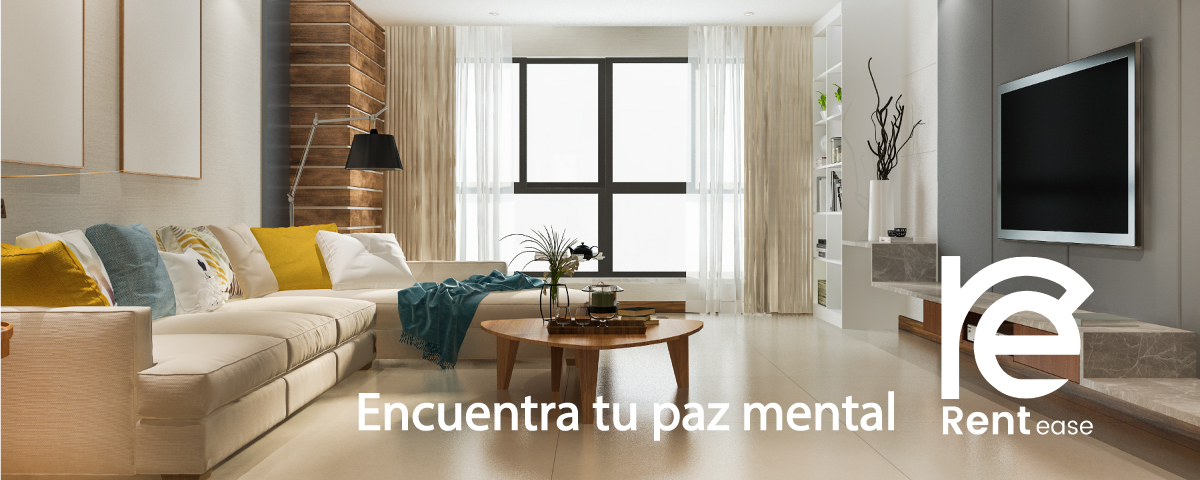
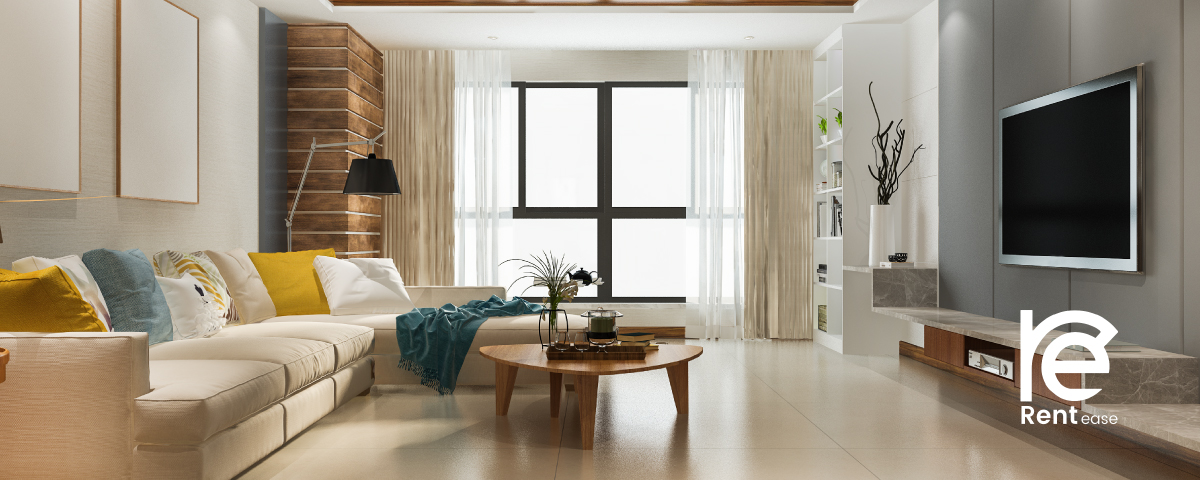
Actualizacion del Home

diff --git a/src/Home/home.html b/src/Home/home.html
@@ -1,93 +1,133 @@
 <!DOCTYPE html>
 <html lang="en">
+
 <head>
-    <meta charset="UTF-8">
-    <link rel="icon" href="/logoweb.png" />
+  <meta charset="UTF-8">
+  <link rel="icon" href="/logoweb.png" />
   <link rel="stylesheet" href="/src/Home/home.css">
   <link href="https://cdnjs.cloudflare.com/ajax/libs/font-awesome/6.0.0/css/all.min.css" rel="stylesheet">
 
 
-    <meta name="viewport" content="width=device-width, initial-scale=1.0">
-    <title>RentEase</title>
+  <meta name="viewport" content="width=device-width, initial-scale=1.0">
+  <title>RentEase</title>
 </head>
 <header>
-    <div class="container">
-      <div class="menu">
-        <div class="logo">
-            <a href="/src/Home/home.html">
-                <img src="/h2.png" alt="logo" height="60px" width="60px">
-            </a>
-        </div>
-        <ul class="nav">
-          <li><a href="../Flat/Flat.html">Nuevo</a></li>
-          <li><a href="../Flat/allFlats.html">Departamentos</a></li>
-          <li><a href="../Register/register.html">Registro</a></li>
-        </ul>
-        <div class="usersesion">
-          <img src="/activeUser.png" alt="logout" height="40px" width="40px">
-          <a href="../ProfileUpdate/profileupdate.html" id="nameUser">
-            <p id="uSesion">Alvaro</p>
-          </a>
-        </div>
-        <div class="logout">
-          <a href="../Login/login.html">
-            <img src="/h1.svg" alt="logout" height="30px" width="30px">
-          </a>
-        </div>
+  <div class="container">
+    <div class="menu">
+      <div class="logo">
+        <a href="/src/Home/home.html">
+          <img src="/h2.png" alt="logo" height="60px" width="60px">
+        </a>
+      </div>
+      <ul class="nav">
+        <li><a href="../Flat/Flat.html">Nuevo</a></li>
+        <li><a href="../Flat/allFlats.html">Departamentos</a></li>
+        <li><a href="../Register/register.html">Registro</a></li>
+      </ul>
+      <div class="usersesion">
+        <img src="/activeUser.png" alt="logout" height="40px" width="40px">
+        <a href="../ProfileUpdate/profileupdate.html" id="nameUser">
+          <p id="uSesion">Alvaro</p>
+        </a>
+      </div>
+      <div class="logout">
+        <a href="../Login/login.html">
+          <img src="/h1.svg" alt="logout" height="30px" width="30px">
+        </a>
       </div>
     </div>
-  </header>
-  <script src="./home.js" type="module"></script>
-<body>
-  <div class="carousel">
-    <button id="prevBtn">⬅</button>
-    <div id="carouselContent"></div>
-    <button id="nextBtn">➡</button>
   </div>
+</header>
+<script src="./home.js" type="module"></script>
+
+<body>
+
+
+  <section class="banner">
+    <div class="banner-img">
+      <img src="/banner-01.jpg" alt="Rent Ease">
+    </div>
+  </section>
+
+  <section class="company-description">
+    <h2>RentEase</h2>
+    <p>En RentEase, hacemos que la renta de departamentos sea fácil, rápida y segura.
+      Conectamos propietarios con inquilinos de manera eficiente, asegurando que encuentres
+      tu espacio ideal sin complicaciones.</p>
+  </section>
+
+  <section class="indicators">
+    <div class="indicator">
+      <h3 class="counter" data-target="500">0</h3>
+      <p>Departamentos Disponibles</p>
+    </div>
+    <div class="indicator">
+      <h3 class="counter" data-target="1200">0</h3>
+      <p>Clientes Satisfechos</p>
+    </div>
+    <div class="indicator">
+      <h3 class="counter" data-target="95">0</h3>
+      <p>Tasa de Satisfacción</p>
+    </div>
+  </section>
+
+  <section class="departments">
+    <h2>Nuestros Departamentos</h2>
+    <div class="carousel">
+      <button id="prevBtn">⬅</button>
+      <div id="carouselContent"></div>
+      <button id="nextBtn">➡</button>
+    </div>
+  </section>
+
   <div class="video">
-    <h3>Te ayudamos a encontrar el hogar de tus sueños</h3>
+    <h2>Te ayudamos a encontrar el hogar de tus sueños</h2>
     <p class="video-description">
-        Descubre oportunidades únicas con nuestro equipo. Mira cómo podemos acompañarte en cada paso para encontrar tu hogar ideal.
+      Descubre oportunidades únicas con nuestro equipo. Mira cómo podemos acompañarte en cada paso para encontrar tu
+      hogar ideal.
     </p>
-    <iframe width="600px" height="415px" src="https://www.youtube.com/embed/VhcbOY4V2no?si=zjt3xkzLo39LPpZM" title="YouTube video player" frameborder="0" allow="accelerometer; autoplay; clipboard-write; encrypted-media; gyroscope; picture-in-picture; web-share" referrerpolicy="strict-origin-when-cross-origin" allowfullscreen></iframe>
+    <iframe width="600px" height="415px" src="https://www.youtube.com/embed/VhcbOY4V2no?si=zjt3xkzLo39LPpZM"
+      title="YouTube video player" frameborder="0"
+      allow="accelerometer; autoplay; clipboard-write; encrypted-media; gyroscope; picture-in-picture; web-share"
+      referrerpolicy="strict-origin-when-cross-origin" allowfullscreen></iframe>
     <p class="cta">¡Explora más con nosotros!</p>
-</div>
+  </div>
 
 </body>
 <footer class="footer">
   <div class="footer-container">
-      <!-- Sección de información -->
-      <div class="footer-info">
-          <h4>Sobre Nosotros</h4>
-          <p>Ofrecemos las mejores propiedades y servicios para ayudarte a encontrar el hogar de tus sueños.</p>
-      </div>
+    <!-- Sección de información -->
+    <div class="footer-info">
+      <h4>Sobre Nosotros</h4>
+      <p>Ofrecemos las mejores propiedades y servicios para ayudarte a encontrar el hogar de tus sueños.</p>
+    </div>
 
-      <!-- Sección de enlaces -->
-      <div class="footer-links">
-          <h4>Enlaces Rápidos</h4>
-          <ul>
-              <li><a href="/src/Home/home.html">Inicio</a></li>
-              <li><a href="#about">Sobre Nosotros</a></li>
-            
-              <li><a href="#faq">Preguntas Frecuentes</a></li>
-          </ul>
-      </div>
+    <!-- Sección de enlaces -->
+    <div class="footer-links">
+      <h4>Enlaces Rápidos</h4>
+      <ul>
+        <li><a href="/src/Home/home.html">Inicio</a></li>
+        <li><a href="#about">Sobre Nosotros</a></li>
 
-      <!-- Sección de contacto -->
-      <div class="footer-contact">
-          <h4>Contáctanos</h4>
-          <p><i class="fa-solid fa-phone"></i> +593-980537563</p>
-          <p><i class="fa-solid fa-envelope"></i> info@rentease.com</p>
-          <p>Matriz: Av. 6 de diciembre y Shirys</p>
-          <div class="footer-social">
-              <a href="https://es-la.facebook.com/login/device-based/regular/login/"><i class="fa-brands fa-facebook"></i></a>
-              <a href="https://x.com/?lang=es"><i class="fa-brands fa-x"></i></a>
-              <a href="https://www.youtube.com/watch?v=VhcbOY4V2no"><i class="fa-brands fa-youtube"></i></a>
-          </div>
+        <li><a href="#faq">Preguntas Frecuentes</a></li>
+      </ul>
+    </div>
+
+    <!-- Sección de contacto -->
+    <div class="footer-contact">
+      <h4>Contáctanos</h4>
+      <p><i class="fa-solid fa-phone"></i> +593-980537563</p>
+      <p><i class="fa-solid fa-envelope"></i> info@rentease.com</p>
+      <p>Matriz: Av. 6 de diciembre y Shirys</p>
+      <div class="footer-social">
+        <a href="https://es-la.facebook.com/login/device-based/regular/login/"><i class="fa-brands fa-facebook"></i></a>
+        <a href="https://x.com/?lang=es"><i class="fa-brands fa-x"></i></a>
+        <a href="https://www.youtube.com/watch?v=VhcbOY4V2no"><i class="fa-brands fa-youtube"></i></a>
       </div>
+    </div>
   </div>
   <div class="footer-bottom">
-      <p>© 2025 RensEase. Todos los derechos reservados.</p>
+    <p>© 2025 RensEase. Todos los derechos reservados.</p>
   </div>
 </footer>
 

diff --git a/src/Home/home.css b/src/Home/home.css
@@ -22,7 +22,7 @@ header {
     width: 100%;
     background-image: linear-gradient(to right, rgb(11, 143, 231), rgb(79, 208, 217));
     position: relative;
-    margin-bottom: 30px;
+    margin-bottom: 0px;
 }
 
 .menu {
@@ -97,9 +97,82 @@ header {
     color: inherit;
 }
 
+/* =========================== */
+/* 📌 BANNER MEJORADO */
+/* =========================== */
+.banner {
+    background: white;
+    color: white;
+    display: block;
+    align-items: center;
+    justify-content: space-between;
+    text-align: center;
+}
+
+.banner-img {
+display: block;
+    justify-content: center;
+}
+
+.banner-img img {
+    width: 100%;
+    height: 100%;
+    box-shadow: 5px 5px 15px rgba(0, 0, 0, 0.2);
+}
+
+/* =========================== */
+/* 📌 DESCRIPCIÓN DE RENT EASE */
+/* =========================== */
+.company-description {
+    padding: 80px 40px;
+    background: white;
+    min-height: 200px;
+    display: flex;
+    flex-direction: column;
+    align-items: center;
+}
+
+h2 {
+    color: #0B8FE7;
+    font-size: 2em;
+    margin-bottom: 20px;
+    display: block;
+}
+
+.company-description p {
+    width: 60%;
+    font-size: 1.2em;
+    color: #333;
+}
+
+/* =========================== */
+/* 📌 INDICADORES DINÁMICOS */
+/* =========================== */
+.indicators {
+    display: flex;
+    justify-content: space-around;
+    padding: 50px 30px;
+    background: #f1f1f1;
+}
+
+.indicator {
+    text-align: center;
+}
+
+.indicator h3 {
+    font-size: 2.5em;
+    color: #0B8FE7;
+    margin-bottom: 5px;
+}
 
 /* carrusel */
 /* Contenedor del carrusel */
+
+.departments{
+display: block;
+padding: 50px 50px;
+}
+
 .carousel {
     display: flex;
     align-items: center;
@@ -108,6 +181,7 @@ header {
     position: relative;
     width: 100%;
     margin: 30px auto;
+    padding-top: 10PX;
 }
 
 /* Botones */
@@ -301,8 +375,8 @@ button:hover {
 /* diseño para el video */
 .video {
     width: 100%; 
-    padding: 20px 40px; 
-     
+    padding: 60px 40px; 
+    background: #f1f1f1;
     text-align: center;
 }
 

diff --git a/src/Home/home.js b/src/Home/home.js
@@ -77,7 +77,24 @@ nextBtn.addEventListener("click", () => {
 // Renderiza el primer flat
 renderFlat(currentIndex);
 
-
+document.addEventListener("DOMContentLoaded", function () {
+    const counters = document.querySelectorAll('.counter');
+    counters.forEach(counter => {
+        counter.innerText = '0';
+        const updateCounter = () => {
+            const target = +counter.getAttribute('data-target');
+            const count = +counter.innerText;
+            const increment = target / 100;
+            if (count < target) {
+                counter.innerText = `${Math.ceil(count + increment)}`;
+                setTimeout(updateCounter, 20);
+            } else {
+                counter.innerText = target;
+            }
+        };
+        updateCounter();
+    });
+});
 
 
 
